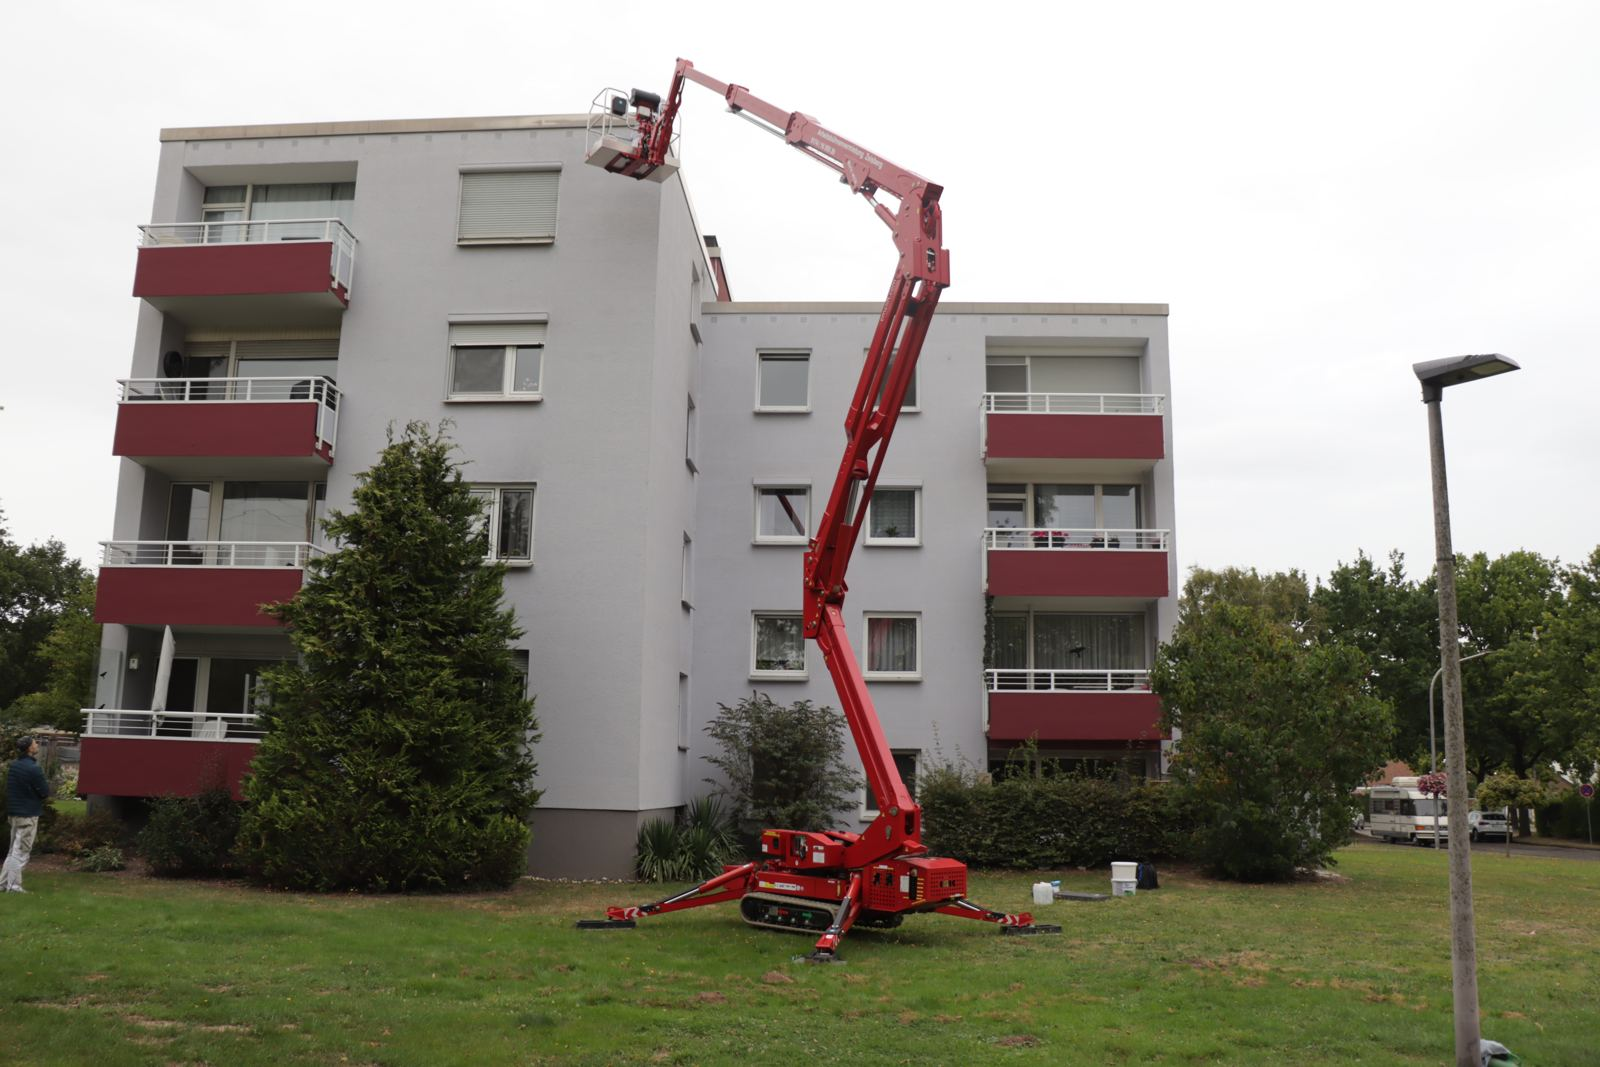
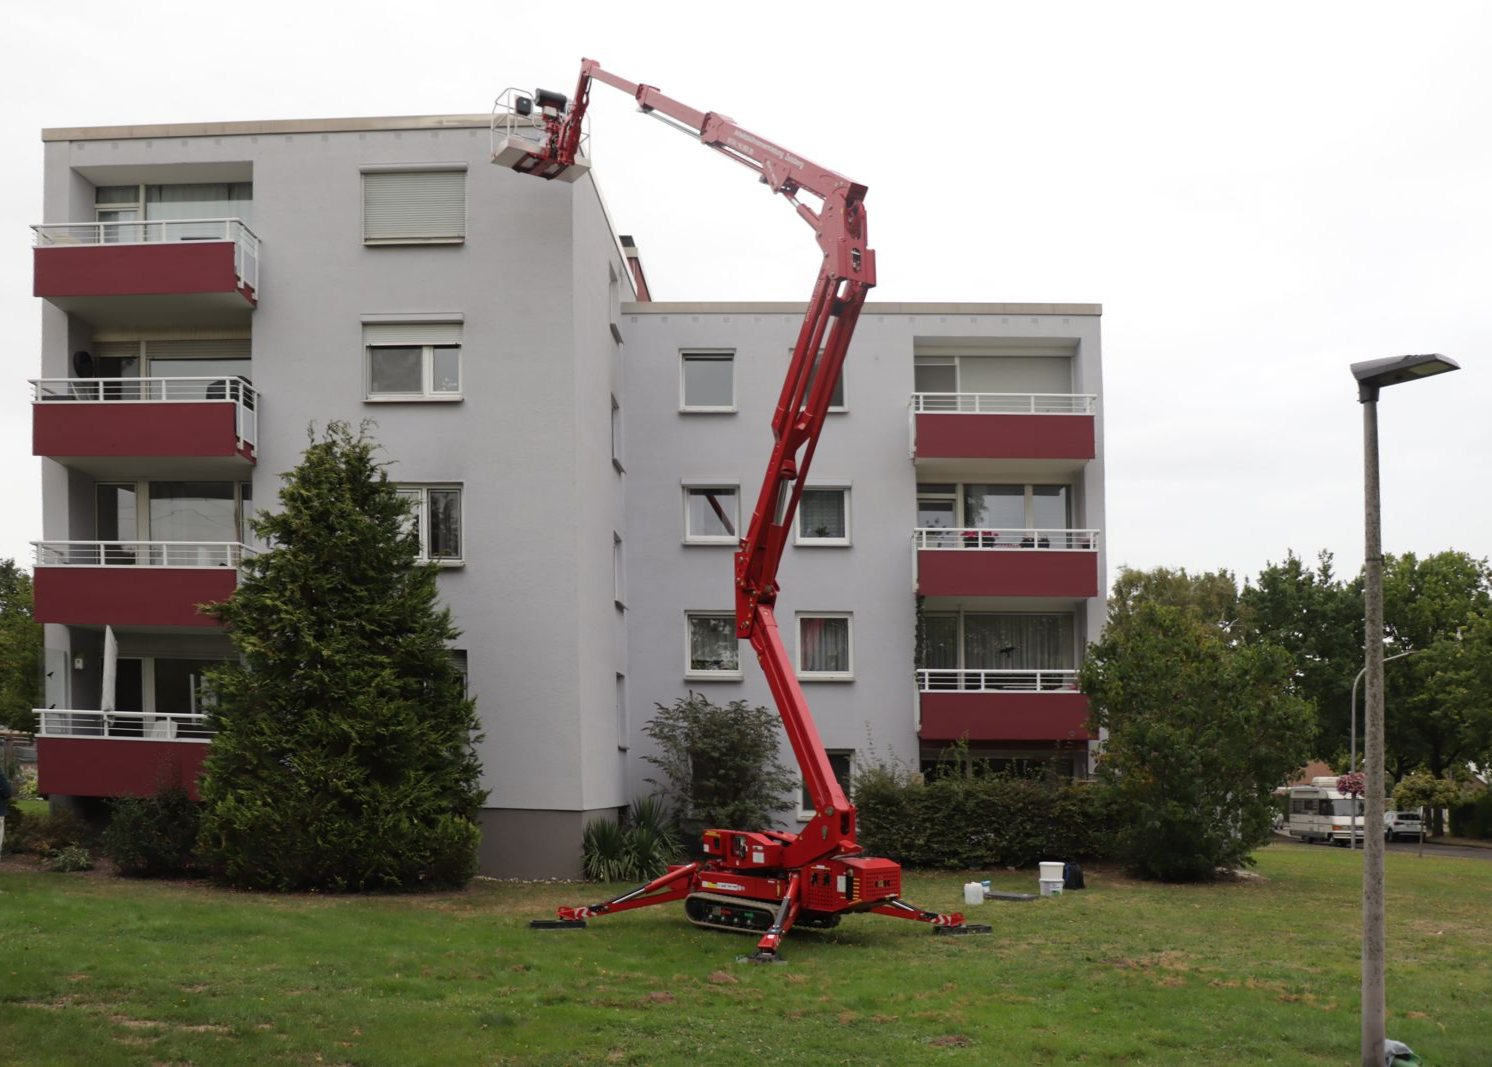
C10: Foto Privatleute perspektivisch begradigt, Kartenbilder 3:2

diff --git a/c10.html b/c10.html
@@ -481,7 +481,8 @@ h1 .ln:nth-child(3)>span{color:var(--R)}
 /* 7 Für wen */
 .who{gap:20px}
 .wcard{border-radius:8px;box-shadow:0 2px 12px rgba(0,0,0,.12)}
-.wcard-img{aspect-ratio:16/8}
+.wcard-img{aspect-ratio:3/2}
+.wcard-img img.pos-top{object-position:50% 40%}
 .wcard-body{position:relative}
 .whead{display:flex;align-items:center;justify-content:space-between;gap:16px}
 .wbig{flex:none;width:clamp(30px,2.6vw,40px);height:clamp(30px,2.6vw,40px);color:var(--R)}
@@ -760,7 +761,7 @@ h1 .ln:nth-child(3)>span{color:var(--R)}
         </div>
       </article>
       <article class="wcard rv" style="--d:.1s">
-        <div class="wcard-img"><img src="img/foto-raupe-haus.jpg" alt="Raupenarbeitsbühne vor einem Wohnhaus" loading="lazy" width="1600" height="1067"></div>
+        <div class="wcard-img"><img class="pos-top" src="img/foto-raupe-haus.jpg?v=2" alt="Raupenarbeitsbühne vor einem Wohnhaus" loading="lazy" width="1492" height="1067"></div>
         <div class="wcard-body">
           <div class="whead"><h3>Für Privatleute</h3><svg class="wbig" viewBox="0 0 24 24" aria-hidden="true" fill="none" stroke="currentColor" stroke-width="1.6" stroke-linecap="round" stroke-linejoin="round"><path d="M3 11l9-8 9 8"/><path d="M5 10v11h14V10"/><path d="M10 21v-6h4v6"/></svg></div>
           <p>Du brauchst die Bühne nur einmal? Kein Problem. Wir beraten dich und weisen dich ein.</p>
